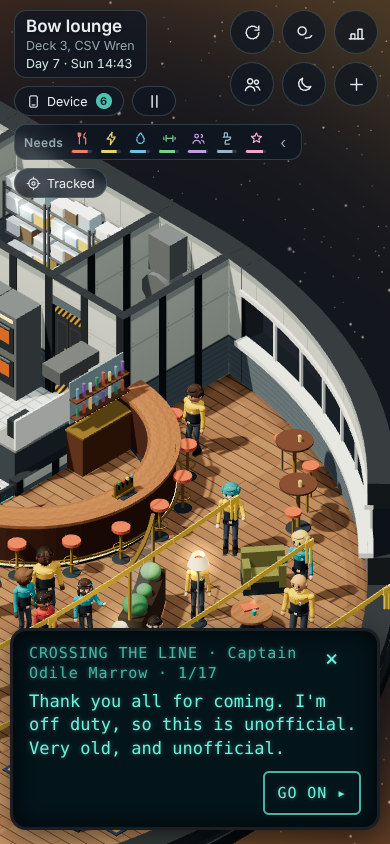
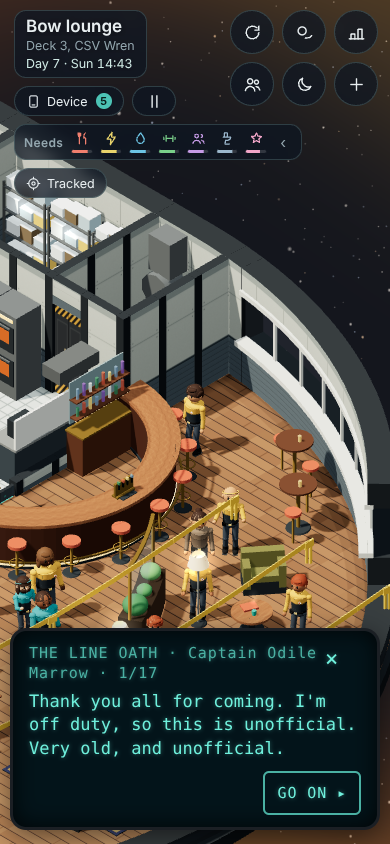
PR10: the Line L5e-L5h on 230495d: PASS WITH NOTES (day_check 7 known double dinner; the oath's crowd late); shots
Claude-Session: https://claude.ai/code/session_01KG4WKkSL57buDyiygrA5tF

diff --git a/plans/review-6.md b/plans/review-6.md
@@ -218,3 +218,20 @@ Turns 18/19 (f4fb3f7/7c7d4eb, on claude/line-update 8bfff3b, EV_LINE_ON = EVENTS
 - l_short (supper 18:00-18:30): FAIL "only 38 came ... fewer than 40". Caught.
 - l_offVenue (lineVenue() run with the Line off): FAIL "off: the Line's venue ('bow-lounge-line') is there ... 55 places". Caught.
 ### Verdict: EC1 turns 14-19: PASS (every planted break caught; clean builds OK)
+
+## PR10: the Line L5e-L5h (claude/line-update 230495d, LB3's head; L5h to be undone by lead 25's word) (2026-10-21)
+Code read: L5e/L5f (EV7: 'everyone' as a pull floor, ownFor, joinAt, the supper 18:00-19:45 seated with 30-45 min stays),
+L5g (LB3: lineOwnUp in evArrive, pure, Line-only; food_check from integration with EV5's rota line), L5h (the
+ceremony's pull .95 for all but first-timers: one line). Fine.
+Runs (on = EVENTS_ON and EV_LINE_ON true; bv = EV_LINE_ON = EVENTS_ON):
+- off: cadet_test 4306fd1 -> 230495d ALL IDENTICAL.
+- on: events_check OK; day_check 6 OK, 8 OK; day_check 7 FAILS only on the known double dinner (eklund-leila: a tray
+  in 3-lounge-34 at 18:52-19:04; PB2's section 14 fix, lead's call); food_check 7 1: only "garden, good" (backlog 23, every build).
+- bigevents_check 7c7d4eb OK (supper: 83 mean to go, 59 came, at most 39 at once, 48 seats); the unseated-supper mutant FAILs (caught).
+- line_probe 390 and 360: no page errors; no strays in the lounge, Saruth away, the 10 front spots first-timers
+  (Reyes, Yoon, Lemaire among them: fix 9 works live); Marrow at the glass (50.5, 10.2) by 14:34; 216-237 draw calls;
+  a reload at 15:02 keeps 47; ribbons gone 16:05; the supper 37-55 in the mess hall (servery queue and walkers
+  included; 200-235 calls), apple crumble; the plaque 19:41 (257 calls). Shots in plans/review-6/shots/line_*.png.
+- Note (lead's call, as PR6's note 2): live in the lounge 31 at 14:38, 32 at 14:43, 34 at 14:47, then 44 at 14:52 and 47
+  from 14:56: about 15 still arrive after the oath's 14:40 (PR6 saw 35 then on 4306fd1). Paper says 49 planned.
+### Verdict: the Line L5e-L5h (230495d): PASS WITH NOTES (day_check 7 waits on PB2's double-dinner fix; the oath's crowd arrives late, the lead's call). Re-check when L5h is undone and the crowd cap is measured.
